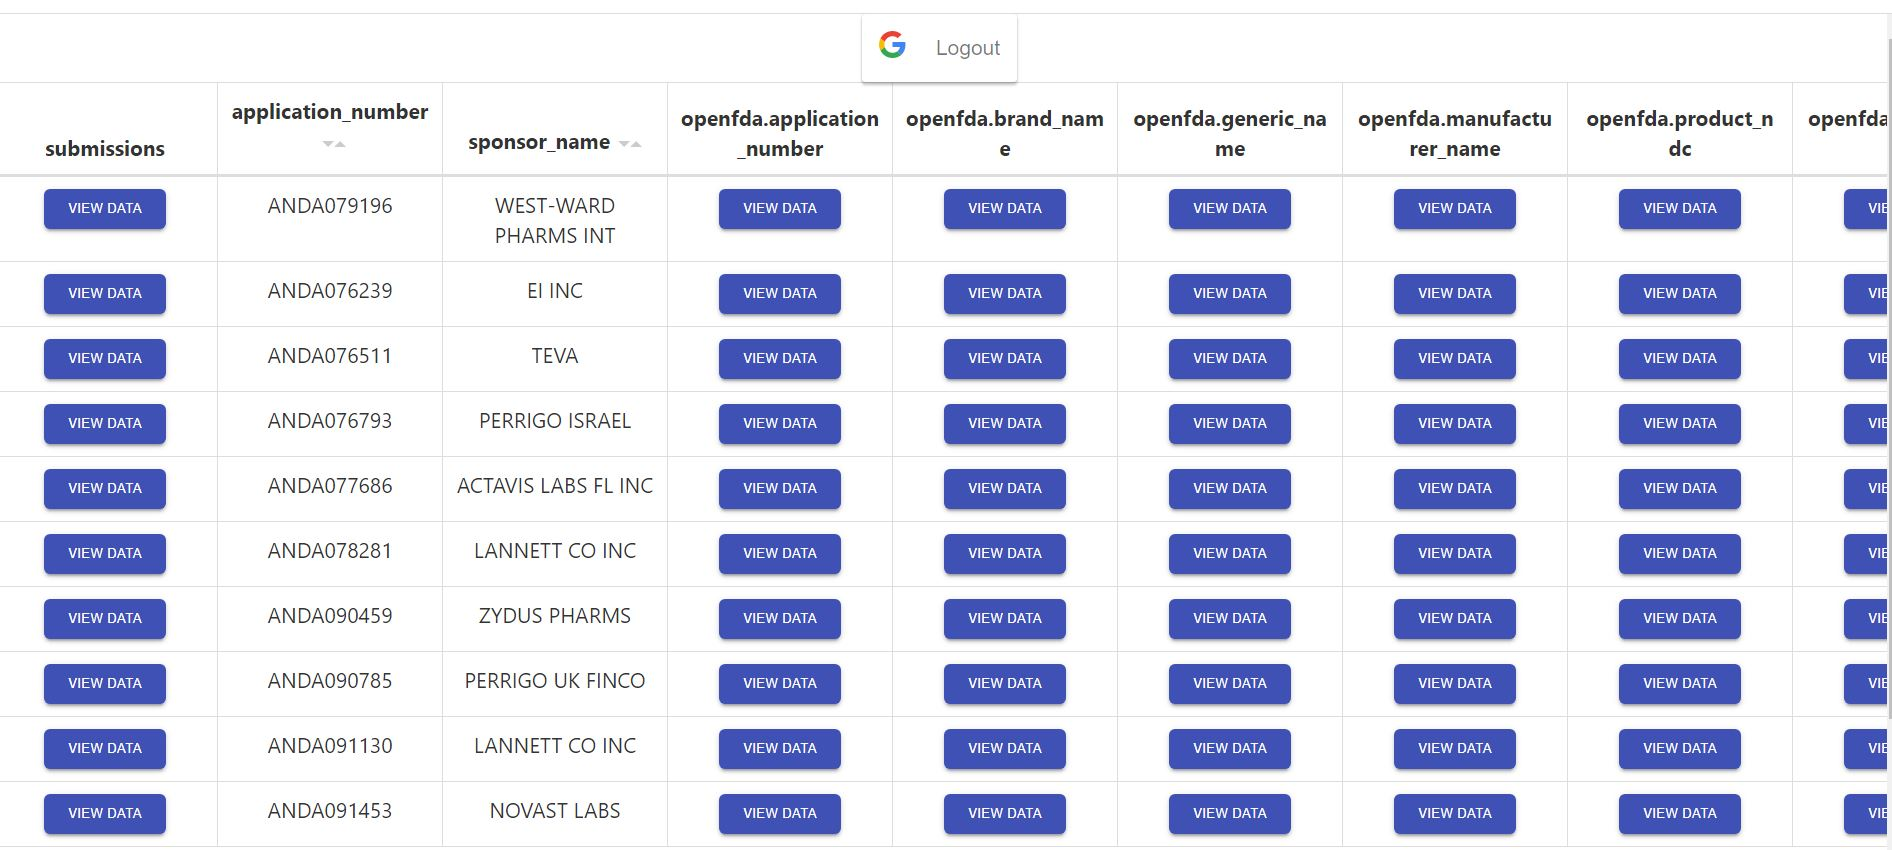
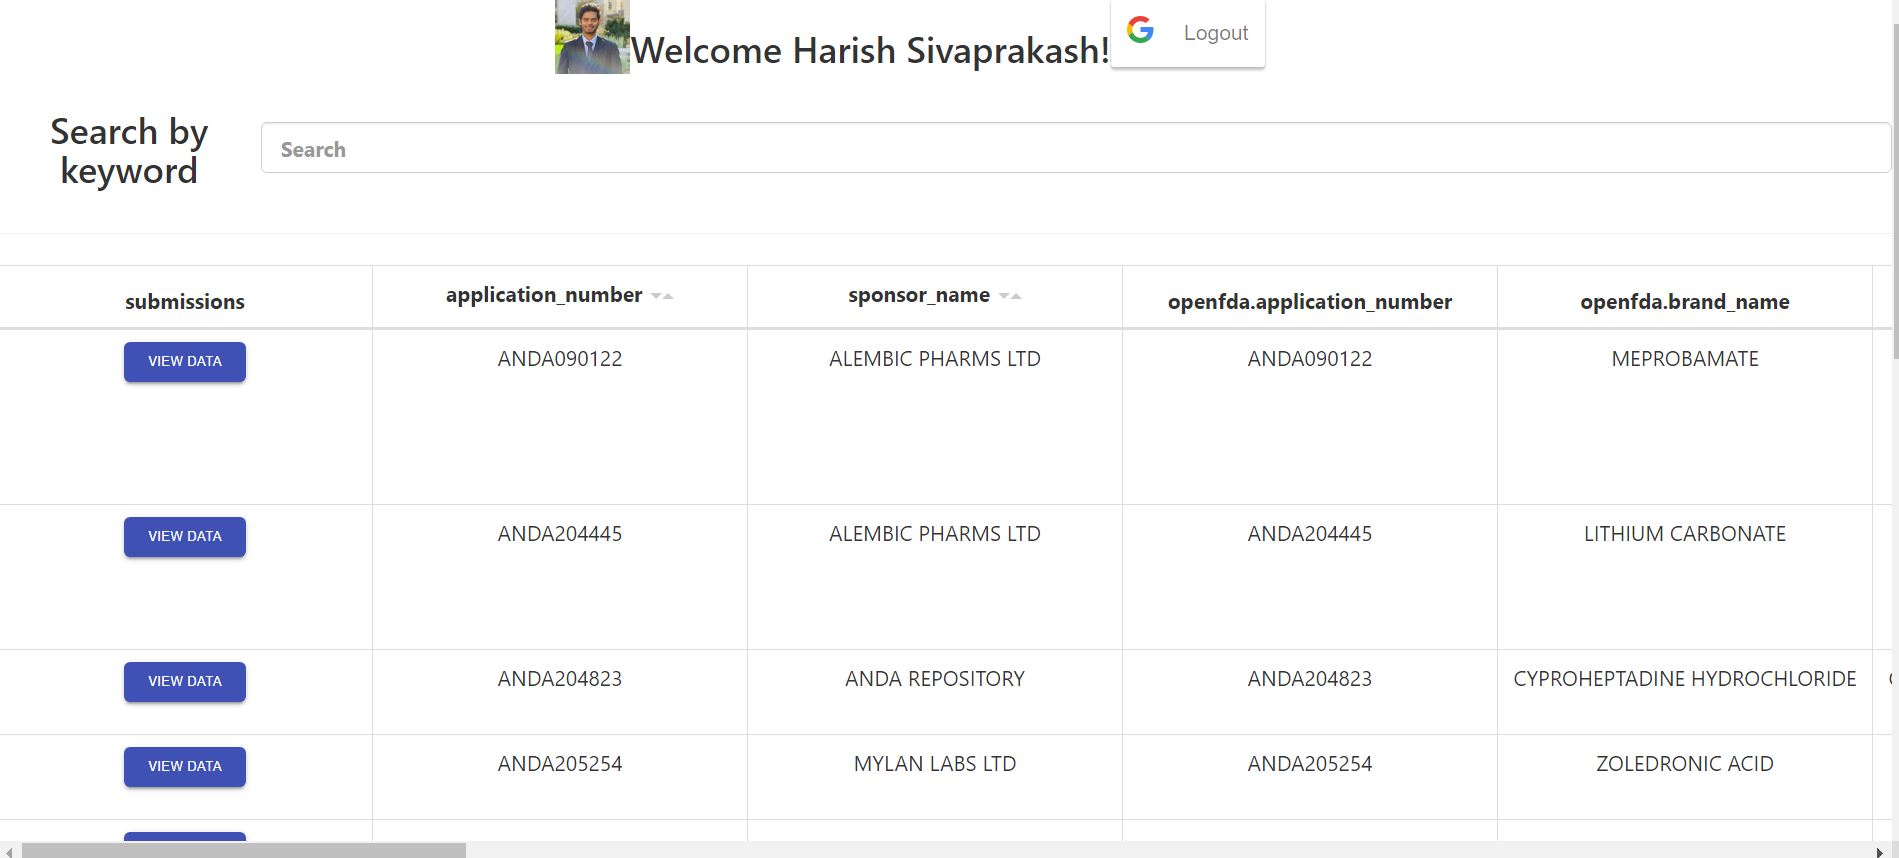
Search bar feature

diff --git a/src/DrugTable.js b/src/DrugTable.js
@@ -5,7 +5,9 @@ import axios from "axios";
 import { Button, Dialog, DialogTitle } from "@material-ui/core";
 // import 'bootstrap/dist/css/bootstrap.min.css';
 import paginationFactory from "react-bootstrap-table2-paginator";
+import ToolkitProvider, { Search } from "react-bootstrap-table2-toolkit";
 
+const { SearchBar } = Search;
 class DrugTable extends React.Component {
   constructor(props) {
     super(props);
@@ -51,24 +53,12 @@ class DrugTable extends React.Component {
             text: dataFieldCombined,
             headerStyle: (colum, colIndex) => {
               return {
-                width: "150px",
+                width: "250px",
                 textAlign: "center",
                 wordBreak: "break-all",
               };
             },
             formatter: (cell) => {
-              if (Array.isArray(cell)) {
-                console.log(cell);
-                return (
-                  <Button
-                    onClick={(e) => this.viewData(e, cell)}
-                    variant="contained"
-                    color="primary"
-                  >
-                    View Data
-                  </Button>
-                );
-              }
               return cell;
             },
           };
@@ -81,7 +71,7 @@ class DrugTable extends React.Component {
           sort: !Array.isArray(maxKeyObj[key]) && true,
           headerStyle: (colum, colIndex) => {
             return {
-              width: "150px",
+              width: "250px",
               textAlign: "center",
               wordBreak: "break-all",
             };
@@ -114,10 +104,10 @@ class DrugTable extends React.Component {
       if (typeof obj === "object") {
         obj["key"] = Math.floor(1000 + Math.random() * 9000);
       } else if (typeof obj === "string") {
-          list[i] = {
-              key : Math.floor(1000 + Math.random() * 9000),
-              value :  obj
-          }
+        list[i] = {
+          key: Math.floor(1000 + Math.random() * 9000),
+          value: obj,
+        };
       }
     }
   }
@@ -142,18 +132,39 @@ class DrugTable extends React.Component {
     });
   }
   renderTable(results, columns) {
-    console.log(results, columns);
     const keyColumn = columns.length > 0 ? "key" : null;
     return (
       <div>
-        {results.length > 0 && (
-          <BootstrapTable
-            keyField={keyColumn}
-            data={results}
-            columns={columns}
-            pagination={paginationFactory()}
-          />
-        )}
+        <ToolkitProvider
+          keyField={keyColumn}
+          data={results}
+          columns={columns}
+          search
+        >
+          {(props) => (
+            <div>
+              {results.length > 0 && (
+                <div>
+                  <div
+                    style={{
+                      display: "inline-flex",
+                      width: "-webkit-fill-available",
+                    }}
+                  >
+                    <h3>Search by keyword</h3>
+                    <SearchBar {...props.searchProps} />
+                  </div>
+                  <hr />
+
+                  <BootstrapTable
+                    pagination={paginationFactory()}
+                    {...props.baseProps}
+                  />
+                </div>
+              )}
+            </div>
+          )}
+        </ToolkitProvider>
       </div>
     );
   }
@@ -194,7 +205,6 @@ class DrugTable extends React.Component {
           open={open}
         >
           <DialogTitle id="simple-dialog-title">
-            Data
             <img
               src="https://d30y9cdsu7xlg0.cloudfront.net/png/53504-200.png"
               onClick={this.handleClose}

diff --git a/src/App.js b/src/App.js
@@ -10,11 +10,13 @@ class App extends React.Component {
     super(props);
     this.state = {
       loginState: false,
+      profileObj: null,
     };
   }
-  handleLogin = (loginState) => {
+  handleLogin = (loginState, profileObj) => {
     this.setState({
       loginState: loginState,
+      profileObj: profileObj,
     });
   };
   render() {
@@ -22,7 +24,12 @@ class App extends React.Component {
       <div className="App">
         {this.state.loginState ? (
           <div>
-            <Logout handleLogin={this.handleLogin}/>
+            <div style={{ display: "inline-flex", height: "50px" }}>
+              <img src={this.state.profileObj.imageUrl} />
+              <h3>Welcome {this.state.profileObj.name}!</h3>
+
+              <Logout handleLogin={this.handleLogin} />
+            </div>
             <DrugTable />
           </div>
         ) : (

diff --git a/public/index.html b/public/index.html
@@ -26,7 +26,7 @@
       work correctly both with client-side routing and a non-root public URL.
       Learn how to configure a non-root public URL by running `npm run build`.
     -->
-    <title>React App</title>
+    <title>Drugs@FDA</title>
   </head>
   <body>
     <noscript>You need to enable JavaScript to run this app.</noscript>

diff --git a/src/Login.js b/src/Login.js
@@ -16,7 +16,7 @@ function Login(props) {
     );
     refreshTokenSetup(res);
     console.log(props)
-    props.handleLogin(true);
+    props.handleLogin(true, res.profileObj);
   };
 
   const onFailure = (res) => {

diff --git a/src/App.css b/src/App.css
@@ -36,3 +36,8 @@
     transform: rotate(360deg);
   }
 }
+
+.search-label {
+  margin-top: 28px !important;
+  width: -webkit-fill-available !important
+}

diff --git a/README.md b/README.md
@@ -53,3 +53,12 @@ UI Design to be self explanatory.
 
 3. Modal Dialog View
 ![Alt text](Screenshots/ViewData.JPG "View Data")
+
+4. Pagination feature
+![Alt text](Screenshots/Pagination.JPG "Pagination")
+
+5. Column Sorting feature 
+![Alt text](Screenshots/Sorting.JPG "Column sorting")
+
+6. Search Bar feature 
+![Alt text](Screenshots/SearchBar.JPG "Search Bar")
